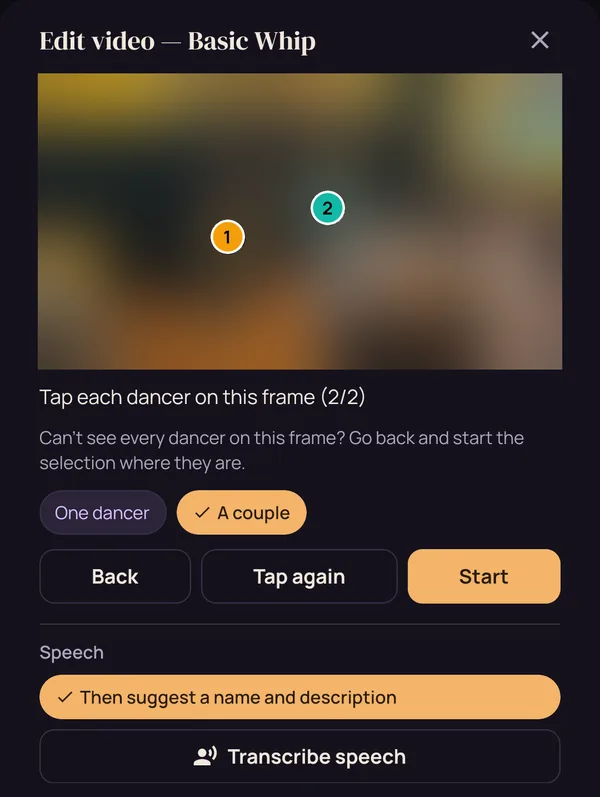
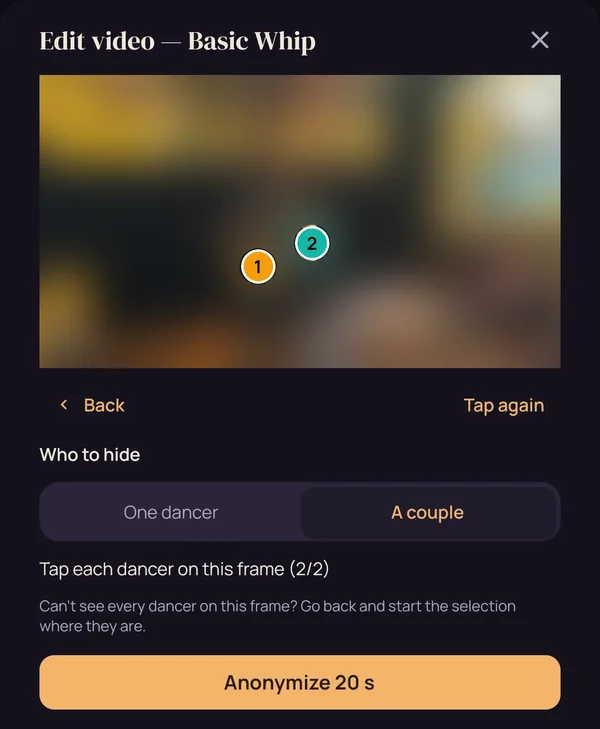
Website: retake the video-tool shots after the Edit video rework
Claude-Session: https://claude.ai/code/session_01YZzagiQxPeECpJ541Xg7Xf

diff --git a/website/index.html b/website/index.html
@@ -456,22 +456,22 @@
             <figure class="shot-crop">
               <picture class="for-ah">
                 <source srcset="img/shots/video-trim-ah-dark.webp" media="(prefers-color-scheme: dark)" />
-                <img src="img/shots/video-trim-ah.webp" width="600" height="859" loading="lazy" alt="The Edit video sheet: the 20 seconds from 2:18 to 2:38 of a long class video are selected, with Shorten and Anonymize below and the option to transcribe the full video first" />
+                <img src="img/shots/video-trim-ah.webp" width="600" height="719" loading="lazy" alt="The Edit video sheet: the 20 seconds from 2:18 to 2:38 of a long class video are selected, with Shorten and Anonymize below and the option to transcribe the full video first" />
               </picture>
               <picture class="for-cb">
                 <source srcset="img/shots/video-trim-cb-dark.webp" media="(prefers-color-scheme: dark)" />
-                <img src="img/shots/video-trim-cb.webp" width="600" height="854" loading="lazy" alt="The Edit video sheet: the 20 seconds from 2:18 to 2:38 of a long class video are selected, with Shorten and Anonymize below and the option to transcribe the full video first" />
+                <img src="img/shots/video-trim-cb.webp" width="600" height="716" loading="lazy" alt="The Edit video sheet: the 20 seconds from 2:18 to 2:38 of a long class video are selected, with Shorten and Anonymize below and the option to transcribe the full video first" />
               </picture>
               <figcaption>Pick the part that shows the figure, up to 30 seconds.</figcaption>
             </figure>
             <figure class="shot-crop">
               <picture class="for-ah">
                 <source srcset="img/shots/video-tap-ah-dark.webp" media="(prefers-color-scheme: dark)" />
-                <img src="img/shots/video-tap-ah.webp" width="600" height="797" loading="lazy" alt="Anonymizing a clip: the two dancers are marked 1 and 2 on a frame of the video" />
+                <img src="img/shots/video-tap-ah.webp" width="600" height="729" loading="lazy" alt="Anonymizing a clip: the two dancers are marked 1 and 2 on a frame of the video" />
               </picture>
               <picture class="for-cb">
                 <source srcset="img/shots/video-tap-cb-dark.webp" media="(prefers-color-scheme: dark)" />
-                <img src="img/shots/video-tap-cb.webp" width="600" height="792" loading="lazy" alt="Anonymizing a clip: the two dancers are marked 1 and 2 on a frame of the video" />
+                <img src="img/shots/video-tap-cb.webp" width="600" height="707" loading="lazy" alt="Anonymizing a clip: the two dancers are marked 1 and 2 on a frame of the video" />
               </picture>
               <figcaption>Tap the dancers, and the phone does the rest.</figcaption>
             </figure>
@@ -489,11 +489,11 @@
             <figure class="shot-crop">
               <picture class="for-ah">
                 <source srcset="img/shots/video-transcript-ah-dark.webp" media="(prefers-color-scheme: dark)" />
-                <img src="img/shots/video-transcript-ah.webp" width="600" height="816" loading="lazy" alt="The transcript of the class video, line by line with timestamps, each with a box to add it to the description, and a button to suggest a name and description" />
+                <img src="img/shots/video-transcript-ah.webp" width="600" height="1131" loading="lazy" alt="The transcript of the class video, line by line with timestamps, each with a box to add it to the description, and a button to suggest a name and description" />
               </picture>
               <picture class="for-cb">
                 <source srcset="img/shots/video-transcript-cb-dark.webp" media="(prefers-color-scheme: dark)" />
-                <img src="img/shots/video-transcript-cb.webp" width="600" height="804" loading="lazy" alt="The transcript of the class video, line by line with timestamps, each with a box to add it to the description, and a button to suggest a name and description" />
+                <img src="img/shots/video-transcript-cb.webp" width="600" height="1106" loading="lazy" alt="The transcript of the class video, line by line with timestamps, each with a box to add it to the description, and a button to suggest a name and description" />
               </picture>
               <figcaption>Read what was said, jump to a line, or add it to your notes.</figcaption>
             </figure>
